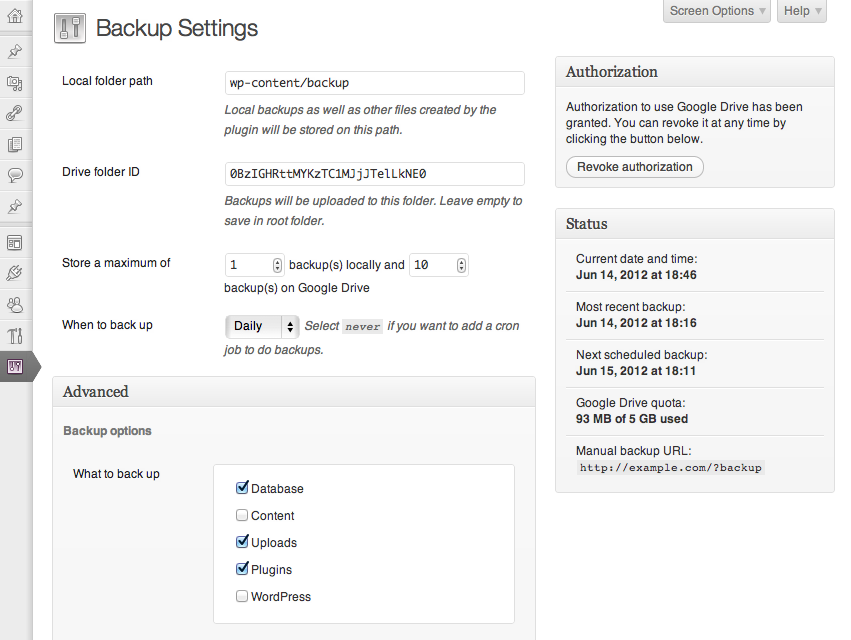
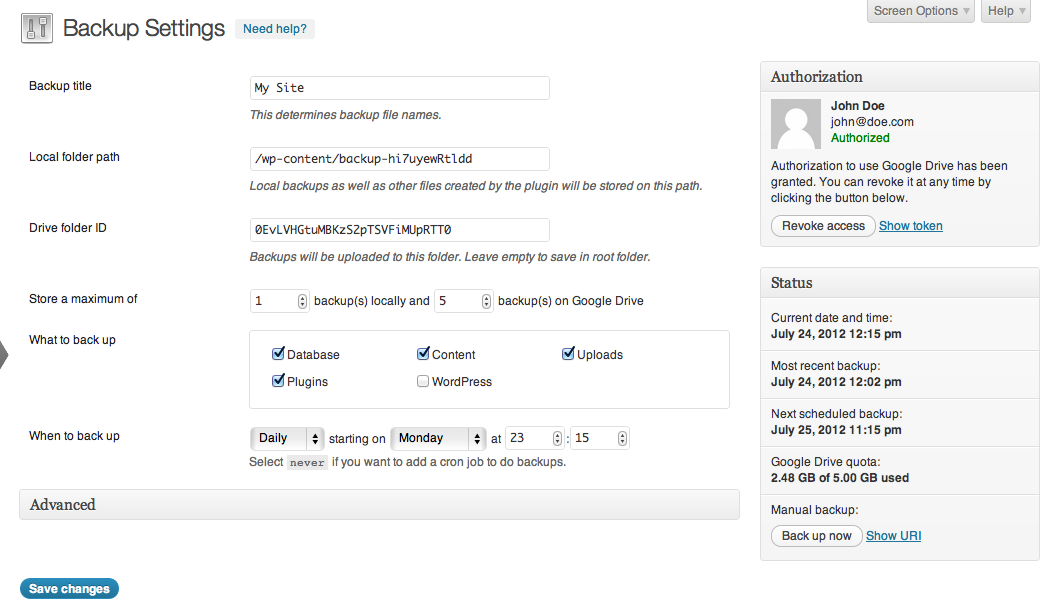
Updated readme files and screenshot.

diff --git a/README.md b/README.md
@@ -6,7 +6,7 @@ Google Drive.
 
 ## Description
 
-Version 2.1 is out and it's full of improvements and new features!
+Version 2.1 is out and addresses some serious security issues, so everyone is advised to upgrade.
 
 If you use this plugin and find it useful please consider [donating](http://hel.io/donate/ "Make a donation for your
 favorite WordPress plugin."). I have invested (and continue to do so) a lot of time and effort into making this a useful
@@ -15,12 +15,12 @@ and polished product even though at the moment I have no source of income. Even 
 Backup is a plugin that provides backup capabilities for Wordpress. Backups are `zip` archives created locally and
 uploaded to a folder of your choosing on Google Drive.
 
-You are in total control of what files and directories get backed up. 
+You are in total control of what files and directories get backed up.
 
 
 ## Installation
 
-The plugin requires WordPress 3.4 and is installed like any other plugin.
+The plugin requires WordPress 3.4 or higher and is installed like any other plugin.
 
 - Upload the plugin to the `/wp-contents/plugins/` folder.
 - Activate the plugin from the 'Plugins' menu in WordPress.
@@ -43,13 +43,21 @@ If you need support configuring the plugin click on the `help` button on the top
 - Outputting progress when doing manual backup.
 - Now generating separate log files for each backup.
 - Added a unique token to the manual backup URI so that backups can't be deployed by anyone.
+- The default backup folder name contains the unique token and is web inaccessible.
 - Displaying user information for the currently authorized account. This is useful in case of multiple Google accounts when the user doesn't remember which account was authorized.
+- Added option to manually enter the refresh token in case you already authorized your account on another website using this plugin.
+- You can now give backup archives a custom title.
+- Added option to control the maximum resume attempts.
 - Added option to change the request timeout value.
 - Added option to disable specific HTTP transports.
 - Added option to disable SSL verification against a certificate.
-- Added Russian localization
+- Added the ability to manually enter the refresh token in case you want to use the same Client ID for more than one WordPress site.
+- Added Russian localization.
 - The plugin now properly handles updates. This means you won't have to reactivate the plugin after each update.
-- Other minor bug fixes.
+- You can now set a time limit of 0 which will cause the backup process to run as much as it needs to. This is not recommended though.
+- Added a 'Need help?' button next to the title of the Settings page which opens the context help. Hopefully people will stop asking questions that are already covered there.
+- Dates are now localized.
+- Fixed a bug that was causing archives to have duplicate files when using PclZip.
 
 **2.0.1**
 - Fixed database dump not getting added to the backup archive in some circumstances.
